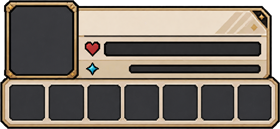
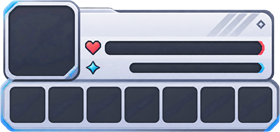
feat(ui): 状态栏换成冷色银白版（新状态栏.png），重算元素坐标；头像加圆角遮罩防溢出

diff --git a/Assets/Scripts/UI/GameUI.cs b/Assets/Scripts/UI/GameUI.cs
@@ -169,14 +169,14 @@ namespace XianXia.UI
 
         // ---------------- 人物状态栏 ----------------
         // 素材原图的内容区尺寸，用来把子元素位置按比例换算到面板内
-        const float BarSrcW = 1404f;
-        const float BarSrcH = 647f;
+        const float BarSrcW = 1396f;
+        const float BarSrcH = 659f;
         const float BarW = 280f;
-        const float BarH = 129f;
+        const float BarH = 132f;
 
-        // 7 个技能格在原图里的横坐标和宽度
-        static readonly float[] SlotX = { 46f, 244f, 438f, 623f, 816f, 1008f, 1191f };
-        static readonly float[] SlotW = { 180f, 178f, 168f, 175f, 176f, 167f, 170f };
+        // 7 个技能格在原图里的横坐标和宽度（相对内容区左上角）
+        static readonly float[] SlotX = { 49f, 241f, 432f, 621f, 810f, 999f, 1187f };
+        static readonly float[] SlotW = { 177f, 176f, 174f, 174f, 174f, 172f, 171f };
 
         static float BX(float x) { return x / BarSrcW * BarW; }
         static float BY(float y) { return y / BarSrcH * BarH; }
@@ -201,21 +201,28 @@ namespace XianXia.UI
             bg.raycastTarget = false;
             UIFactory.Stretch(bg.rectTransform, 0f, 0f, 0f, 0f);
 
-            // 头像（放在素材自带的头像框里）
-            var portrait = UIFactory.NewSpriteImage("Portrait", root, "ui_portrait_hero", Color.white);
+            // 头像：用一张圆角遮罩裁切，否则方形头像的直角会盖住素材框的圆角
+            var maskImg = UIFactory.NewSpriteImage("PortraitMask", root, "ui_portrait_mask", Color.white);
+            maskImg.raycastTarget = false;
+            PlaceTL(maskImg.rectTransform, BX(42f), BY(27f), BX(331f), BY(352f));
+
+            var mask = maskImg.gameObject.AddComponent<Mask>();
+            mask.showMaskGraphic = false;
+
+            var portrait = UIFactory.NewSpriteImage("Portrait", maskImg.transform, "ui_portrait_hero", Color.white);
             portrait.raycastTarget = false;
             portrait.preserveAspect = true;
-            PlaceTL(portrait.rectTransform, BX(45f), BY(26f), BX(327f), BY(354f));
+            UIFactory.Stretch(portrait.rectTransform, 0f, 0f, 0f, 0f);
 
             // 生命条 / 经验条（条太窄，数值不放在条里，交给 ESC 面板和背包）
-            _hpFill = MakeTrack(root, "HpTrack", 521f, 209f, 788f, 74f, new Color(0.80f, 0.20f, 0.22f, 1f));
-            _expFill = MakeTrack(root, "ExpTrack", 647f, 324f, 660f, 44f, new Color(0.32f, 0.62f, 1f, 1f));
+            _hpFill = MakeTrack(root, "HpTrack", 523f, 205f, 783f, 69f, new Color(0.86f, 0.24f, 0.28f, 1f));
+            _expFill = MakeTrack(root, "ExpTrack", 645f, 314f, 660f, 50f, new Color(0.28f, 0.72f, 0.95f, 1f));
 
             // 7 个技能格：图标 + 冷却倒计时
             for (int i = 0; i < 7; i++)
             {
                 var slot = UIFactory.NewRect("Skill" + i, root);
-                PlaceTL(slot, BX(SlotX[i]), BY(425f), BX(SlotW[i]), BY(180f));
+                PlaceTL(slot, BX(SlotX[i]), BY(433f), BX(SlotW[i]), BY(180f));
 
                 // 先建成全透明：没有图标素材的技能就保持空着，露出素材本身的空槽
                 var icon = UIFactory.NewImage("Icon", slot, new Color(1f, 1f, 1f, 0f));

diff --git a/Assets/Editor/ProjectSetup.cs b/Assets/Editor/ProjectSetup.cs
@@ -519,7 +519,7 @@ public static class ProjectSetup
                                  "drop_resonance", "drop_material",
                                  "num_0", "num_1", "num_2", "num_3", "num_4",
                                  "num_5", "num_6", "num_7", "num_8", "num_9",
-                                 "ui_portrait_hero", "ui_statusbar",
+                                 "ui_portrait_hero", "ui_portrait_mask", "ui_statusbar",
                                  "ui_skill_a_force", "ui_skill_a_heal", "ui_skill_a_burn" };
         int spriteOk = 0;
 
